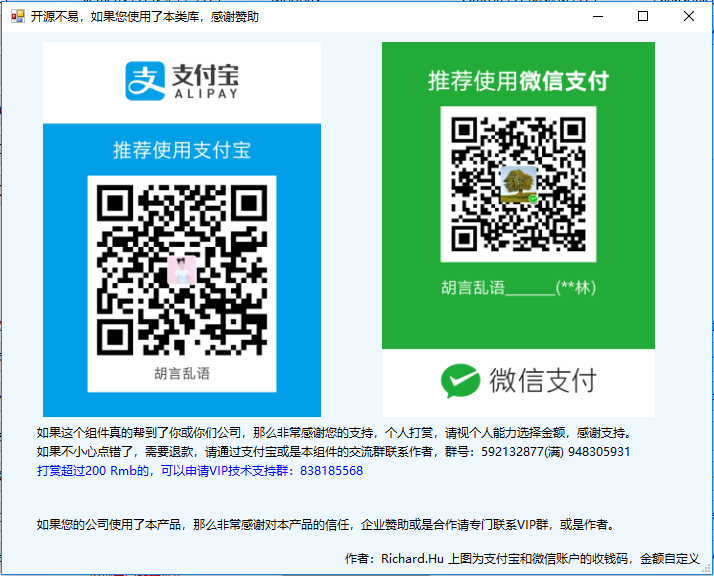
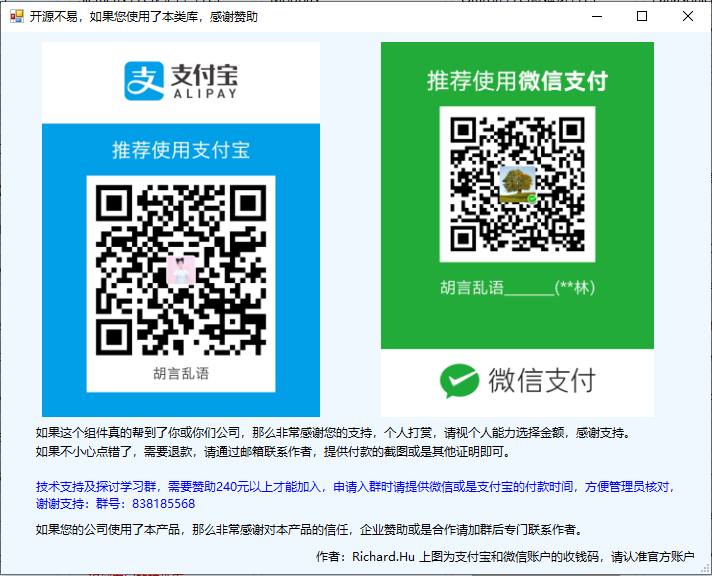
feat(readme): modify support

diff --git a/HslCommunication_Net45/BasicFramework/FormSupport.Designer.cs b/HslCommunication_Net45/BasicFramework/FormSupport.Designer.cs
@@ -32,11 +32,11 @@
             this.label3 = new System.Windows.Forms.Label();
             this.label4 = new System.Windows.Forms.Label();
             this.label5 = new System.Windows.Forms.Label();
-            this.pictureBox2 = new System.Windows.Forms.PictureBox();
             this.pictureBox1 = new System.Windows.Forms.PictureBox();
+            this.pictureBox2 = new System.Windows.Forms.PictureBox();
             this.label6 = new System.Windows.Forms.Label();
-            ((System.ComponentModel.ISupportInitialize)(this.pictureBox2)).BeginInit();
             ((System.ComponentModel.ISupportInitialize)(this.pictureBox1)).BeginInit();
+            ((System.ComponentModel.ISupportInitialize)(this.pictureBox2)).BeginInit();
             this.SuspendLayout();
             // 
             // label1
@@ -51,20 +51,20 @@
             // label3
             // 
             this.label3.AutoSize = true;
-            this.label3.Location = new System.Drawing.Point(32, 484);
+            this.label3.Location = new System.Drawing.Point(32, 489);
             this.label3.Name = "label3";
-            this.label3.Size = new System.Drawing.Size(591, 17);
+            this.label3.Size = new System.Drawing.Size(560, 17);
             this.label3.TabIndex = 3;
-            this.label3.Text = "如果您的公司使用了本产品，那么非常感谢对本产品的信任，企业赞助或是合作请专门联系VIP群，或是作者。";
+            this.label3.Text = "如果您的公司使用了本产品，那么非常感谢对本产品的信任，企业赞助或是合作请加群后专门联系作者。";
             // 
             // label4
             // 
             this.label4.AutoSize = true;
-            this.label4.Location = new System.Drawing.Point(340, 518);
+            this.label4.Location = new System.Drawing.Point(312, 516);
             this.label4.Name = "label4";
-            this.label4.Size = new System.Drawing.Size(363, 17);
+            this.label4.Size = new System.Drawing.Size(387, 17);
             this.label4.TabIndex = 4;
-            this.label4.Text = "作者：Richard.Hu 上图为支付宝和微信账户的收钱码，金额自定义";
+            this.label4.Text = "作者：Richard.Hu 上图为支付宝和微信账户的收钱码，请认准官方账户";
             // 
             // label5
             // 
@@ -72,18 +72,7 @@
             this.label5.Name = "label5";
             this.label5.Size = new System.Drawing.Size(667, 25);
             this.label5.TabIndex = 5;
-            this.label5.Text = "如果不小心点错了，需要退款，请通过支付宝或是本组件的交流群联系作者，群号：592132877(满) 948305931";
-            // 
-            // pictureBox2
-            // 
-            this.pictureBox2.Image = global::HslCommunication.Properties.Resources.mm_facetoface_collect_qrcode_1525331158525;
-            this.pictureBox2.Location = new System.Drawing.Point(375, 10);
-            this.pictureBox2.Margin = new System.Windows.Forms.Padding(3, 4, 3, 4);
-            this.pictureBox2.Name = "pictureBox2";
-            this.pictureBox2.Size = new System.Drawing.Size(283, 375);
-            this.pictureBox2.SizeMode = System.Windows.Forms.PictureBoxSizeMode.Zoom;
-            this.pictureBox2.TabIndex = 6;
-            this.pictureBox2.TabStop = false;
+            this.label5.Text = "如果不小心点错了，需要退款，请通过邮箱联系作者，提供付款的截图或是其他证明即可。";
             // 
             // pictureBox1
             // 
@@ -96,15 +85,26 @@
             this.pictureBox1.TabIndex = 0;
             this.pictureBox1.TabStop = false;
             // 
+            // pictureBox2
+            // 
+            this.pictureBox2.Image = global::HslCommunication.Properties.Resources.mm_facetoface_collect_qrcode_1525331158525;
+            this.pictureBox2.Location = new System.Drawing.Point(375, 10);
+            this.pictureBox2.Margin = new System.Windows.Forms.Padding(3, 4, 3, 4);
+            this.pictureBox2.Name = "pictureBox2";
+            this.pictureBox2.Size = new System.Drawing.Size(283, 375);
+            this.pictureBox2.SizeMode = System.Windows.Forms.PictureBoxSizeMode.Zoom;
+            this.pictureBox2.TabIndex = 6;
+            this.pictureBox2.TabStop = false;
+            // 
             // label6
             // 
             this.label6.AutoSize = true;
             this.label6.ForeColor = System.Drawing.Color.Blue;
-            this.label6.Location = new System.Drawing.Point(32, 430);
+            this.label6.Location = new System.Drawing.Point(32, 446);
             this.label6.Name = "label6";
-            this.label6.Size = new System.Drawing.Size(334, 17);
+            this.label6.Size = new System.Drawing.Size(653, 34);
             this.label6.TabIndex = 7;
-            this.label6.Text = "打赏超过200 Rmb的，可以申请VIP技术支持群：838185568";
+            this.label6.Text = "技术支持及探讨学习群，需要赞助240元以上才能加入，申请入群时请提供微信或是支付宝的付款时间，方便管理员核对，\r\n谢谢支持：群号：838185568";
             // 
             // FormSupport
             // 
@@ -124,8 +124,8 @@
             this.Name = "FormSupport";
             this.StartPosition = System.Windows.Forms.FormStartPosition.CenterParent;
             this.Text = "开源不易，如果您使用了本类库，感谢赞助";
-            ((System.ComponentModel.ISupportInitialize)(this.pictureBox2)).EndInit();
             ((System.ComponentModel.ISupportInitialize)(this.pictureBox1)).EndInit();
+            ((System.ComponentModel.ISupportInitialize)(this.pictureBox2)).EndInit();
             this.ResumeLayout(false);
             this.PerformLayout();
 

diff --git a/TestProject/HslCommunicationDemo/FormLoad.Designer.cs b/TestProject/HslCommunicationDemo/FormLoad.Designer.cs
@@ -104,6 +104,7 @@
             this.日志ToolStripMenuItem = new System.Windows.Forms.ToolStripMenuItem();
             this.verisonToolStripMenuItem = new System.Windows.Forms.ToolStripMenuItem();
             this.免责条款ToolStripMenuItem = new System.Windows.Forms.ToolStripMenuItem();
+            this.授权ToolStripMenuItem = new System.Windows.Forms.ToolStripMenuItem();
             this.groupBox12 = new System.Windows.Forms.GroupBox();
             this.button43 = new System.Windows.Forms.Button();
             this.button42 = new System.Windows.Forms.Button();
@@ -117,7 +118,7 @@
             this.button59 = new System.Windows.Forms.Button();
             this.button57 = new System.Windows.Forms.Button();
             this.button55 = new System.Windows.Forms.Button();
-            this.授权ToolStripMenuItem = new System.Windows.Forms.ToolStripMenuItem();
+            this.support赞助ToolStripMenuItem = new System.Windows.Forms.ToolStripMenuItem();
             this.groupBox1.SuspendLayout();
             this.groupBox2.SuspendLayout();
             this.groupBox3.SuspendLayout();
@@ -913,7 +914,8 @@
             this.blogsToolStripMenuItem,
             this.webSideToolStripMenuItem,
             this.mesDemoToolStripMenuItem,
-            this.rToolStripMenuItem});
+            this.rToolStripMenuItem,
+            this.support赞助ToolStripMenuItem});
             this.aboutToolStripMenuItem.Name = "aboutToolStripMenuItem";
             this.aboutToolStripMenuItem.Size = new System.Drawing.Size(55, 21);
             this.aboutToolStripMenuItem.Text = "About";
@@ -986,6 +988,12 @@
             this.免责条款ToolStripMenuItem.Size = new System.Drawing.Size(68, 21);
             this.免责条款ToolStripMenuItem.Text = "免责条款";
             this.免责条款ToolStripMenuItem.Click += new System.EventHandler(this.免责条款ToolStripMenuItem_Click);
+            // 
+            // 授权ToolStripMenuItem
+            // 
+            this.授权ToolStripMenuItem.Name = "授权ToolStripMenuItem";
+            this.授权ToolStripMenuItem.Size = new System.Drawing.Size(44, 21);
+            this.授权ToolStripMenuItem.Text = "授权";
             // 
             // groupBox12
             // 
@@ -1139,11 +1147,11 @@
             this.button55.UseVisualStyleBackColor = true;
             this.button55.Click += new System.EventHandler(this.Button55_Click);
             // 
-            // 授权ToolStripMenuItem
+            // support赞助ToolStripMenuItem
             // 
-            this.授权ToolStripMenuItem.Name = "授权ToolStripMenuItem";
-            this.授权ToolStripMenuItem.Size = new System.Drawing.Size(44, 21);
-            this.授权ToolStripMenuItem.Text = "授权";
+            this.support赞助ToolStripMenuItem.Name = "support赞助ToolStripMenuItem";
+            this.support赞助ToolStripMenuItem.Size = new System.Drawing.Size(250, 22);
+            this.support赞助ToolStripMenuItem.Text = "Support [赞助]";
             // 
             // FormLoad
             // 
@@ -1289,6 +1297,7 @@
         private System.Windows.Forms.Button button59;
         private System.Windows.Forms.Button button60;
         private System.Windows.Forms.ToolStripMenuItem 授权ToolStripMenuItem;
+        private System.Windows.Forms.ToolStripMenuItem support赞助ToolStripMenuItem;
     }
 }
 

diff --git a/HslCommunication_Net45/Authorization.cs b/HslCommunication_Net45/Authorization.cs
@@ -28,13 +28,14 @@ namespace HslCommunication
         internal static bool nzugaydgwadawdibbas( )
         {
             moashdawidaisaosdas++;
-            if (naihsdadaasdasdiwid == niasdhasdguawdwdad) return nuasduagsdwydbasudasd( );
-            if ((iashdagsdawbdawda( ) - niahdiahduasdbubfas).TotalHours < nuasgdawydaishdgas ) // .TotalHours < nuasgdawydaishdgas)
-            {
-                return nuasduagsdwydbasudasd( );
-            }
+            return true;
+            //if (naihsdadaasdasdiwid == niasdhasdguawdwdad) return nuasduagsdwydbasudasd( );
+            //if ((iashdagsdawbdawda( ) - niahdiahduasdbubfas).TotalHours < nuasgdawydaishdgas ) // .TotalHours < nuasgdawydaishdgas)
+            //{
+            //    return nuasduagsdwydbasudasd( );
+            //}
 
-            return asdhuasdgawydaduasdgu( );
+            //return asdhuasdgawydaduasdgu( );
         }
 
         internal static bool nuasduagsdwydbasudasd( )

diff --git a/TestProject/HslCommunicationDemo/FormLoad.cs b/TestProject/HslCommunicationDemo/FormLoad.cs
@@ -305,6 +305,16 @@ namespace HslCommunicationDemo
                 HslCommunication.StringResources.SeteLanguageEnglish( );
                 Language( Program.Language );
             }
+
+            support赞助ToolStripMenuItem.Click += Support赞助ToolStripMenuItem_Click;
+        }
+
+        private void Support赞助ToolStripMenuItem_Click( object sender, EventArgs e )
+        {
+            using (HslCommunication.BasicFramework.FormSupport form = new HslCommunication.BasicFramework.FormSupport( ))
+            {
+                form.ShowDialog( );
+            }
         }
 
         private void Language( int language )

diff --git a/TestProject/HslCommunicationDemo/DemoControl/UserControlHead.cs b/TestProject/HslCommunicationDemo/DemoControl/UserControlHead.cs
@@ -30,7 +30,7 @@ namespace HslCommunicationDemo.DemoControl
 
         private void UserControlHead_Load( object sender, EventArgs e )
         {
-            if (Program.Language == 2)
+            if (Program.Language == 1)
             {
                 label2.Text = "博客地址：";
                 label4.Text = "使用协议：";

diff --git a/README.md b/README.md
@@ -78,9 +78,8 @@ Install-Package HslCommunication
 * python: **Visual Studio Code**
 
 ## Contact
-* QQ Group1：[592132877](http://shang.qq.com/wpa/qunwpa?idkey=2278cb9c2e0c04fc305c43e41acff940499a34007dfca9e83a7291e726f9c4e8)(full)   Group2：948305931
 * Email: hsl200909@163.com
-* VIP Group (Reward more than 200RMB to join): [838185568](http://shang.qq.com/wpa/qunwpa?idkey=eee02ce1acde63c6316cbb380a80e033a14170ab7ca981f1cac83e0b657c8860)
+* ![reward](https://raw.githubusercontent.com/dathlin/HslCommunication/master/imgs/support.png)
 
 ## Supported Model and price [welcome to complete]
 #### Siemens
@@ -314,10 +313,6 @@ Warmly welcome suggestions for improvement of the Code of this project, you can 
 [![Picture](https://raw.githubusercontent.com/dathlin/HslCommunication/master/imgs/partner/盛意达.jpg)](http://bjsyd.cn) [![Picture](https://raw.githubusercontent.com/dathlin/HslCommunication/master/imgs/partner/PENC.jpg)](http://www.penc.com)
 ![Picture](https://raw.githubusercontent.com/dathlin/HslCommunication/master/imgs/partner/rocket_Blue.png) ![Picture](https://raw.githubusercontent.com/dathlin/HslCommunication/master/imgs/partner/翔宇自控.jpg) 
 [![Picture](https://raw.githubusercontent.com/dathlin/HslCommunication/master/imgs/partner/杭州优海.png)](http://www.eohi700.com/)
-
-## Creative is not easy, thanks for the reward
-If this library really helps you, you can support me by AliPay. Please choose the amount according to your actual ability.
-![reward](https://raw.githubusercontent.com/dathlin/HslCommunication/master/imgs/support.png)
 
 ## Controls
 This library include some controls render upside picture. u can easily use them
